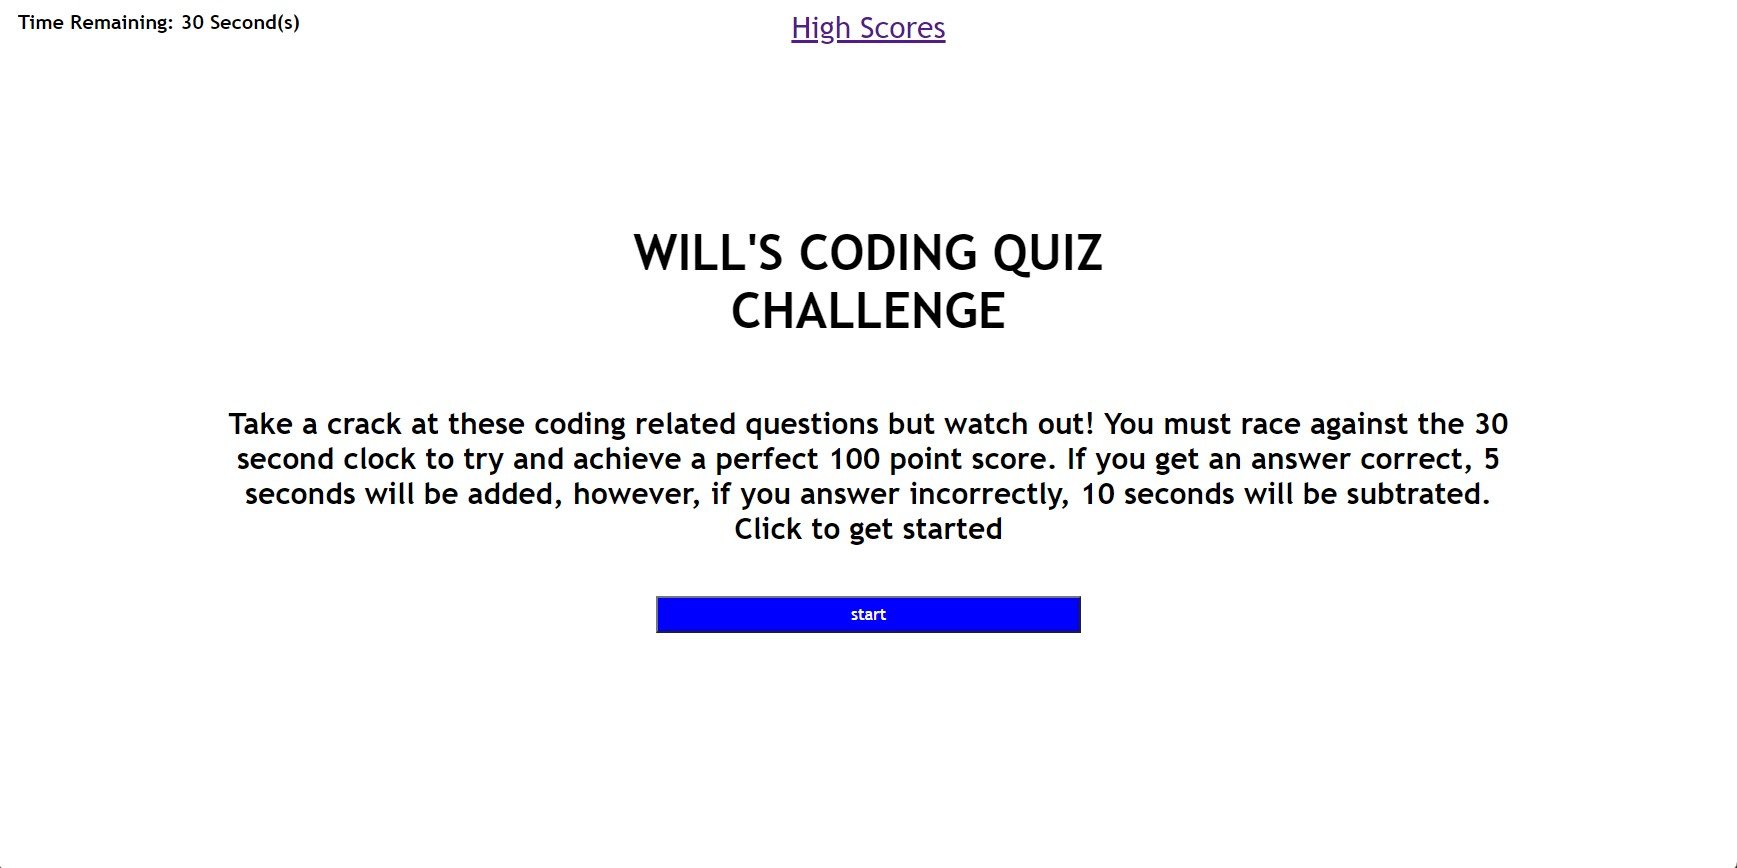
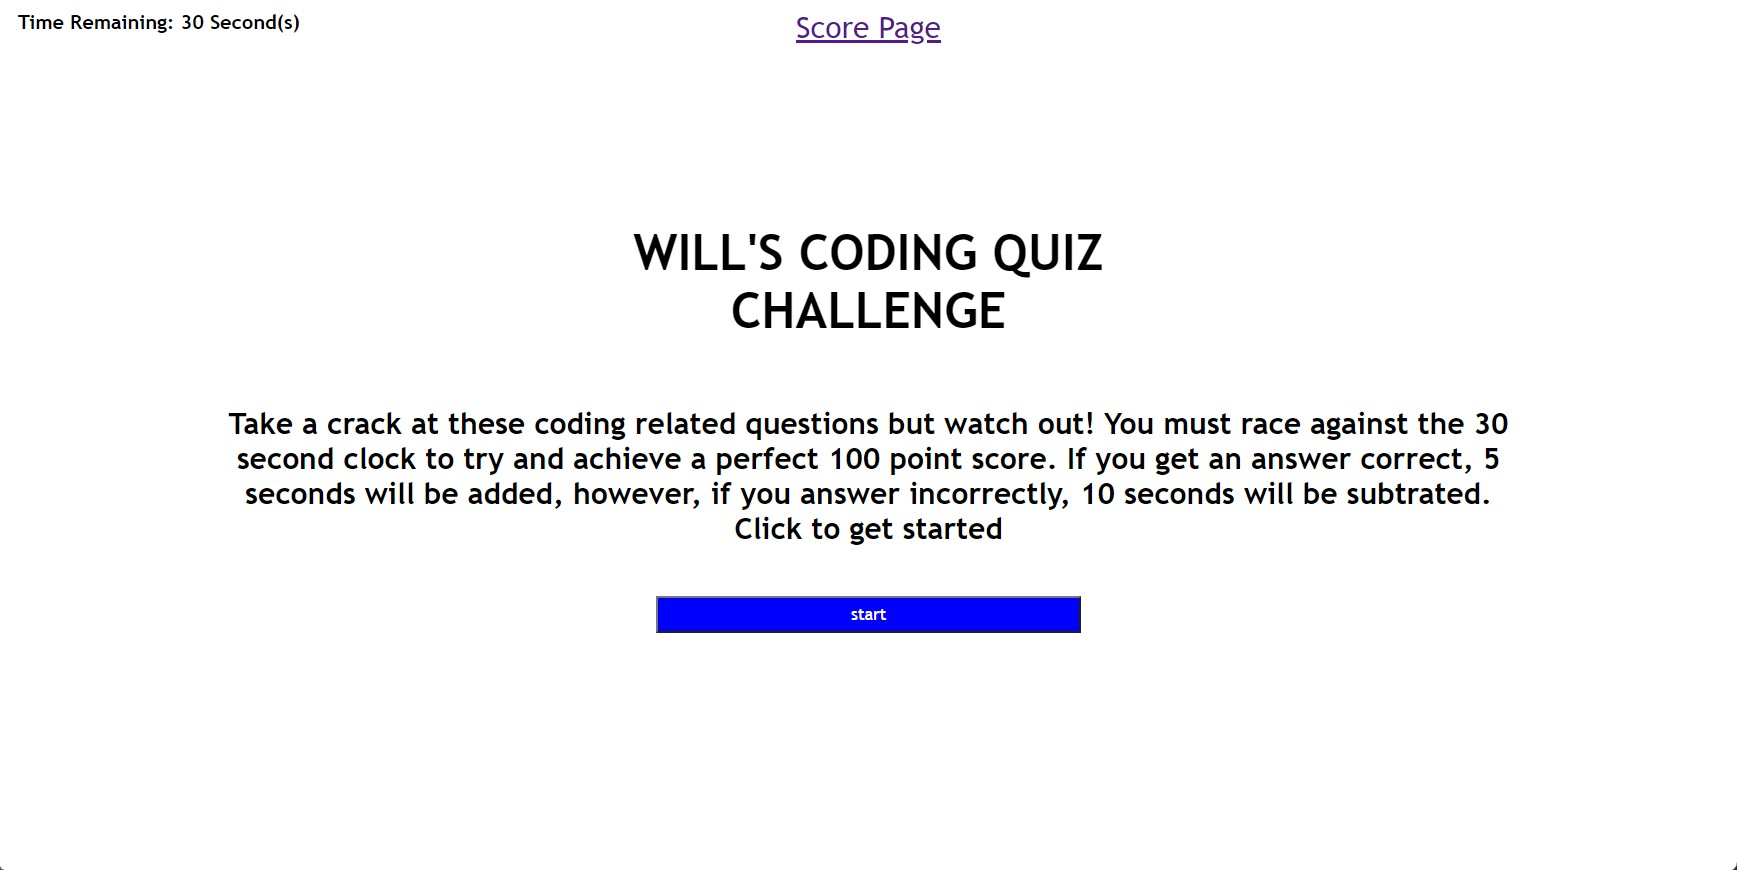
Changed title of score page and hyperlink text. Updated README photo to reflect

diff --git a/assets/highScorePage.html b/assets/highScorePage.html
@@ -4,7 +4,7 @@
     <meta charset="UTF-8">
     <meta http-equiv="X-UA-Compatible" content="IE=edge">
     <meta name="viewport" content="width=device-width, initial-scale=1.0">
-    <title>Document</title>
+    <title>Scores</title>
     <link rel="stylesheet" href="style.css">
 </head>
 <body>

diff --git a/index.html b/index.html
@@ -9,7 +9,7 @@
 </head>
 <body>
 
-<a href="assets/highScorePage.html">High Scores</a>   
+<a href="assets/highScorePage.html">Score Page</a>   
 <div class="timer">Time Remaining: 30 Second(s)</div> 
 <section class="quizWindow">
     <h1>WILL'S CODING QUIZ <br> CHALLENGE</h1>
